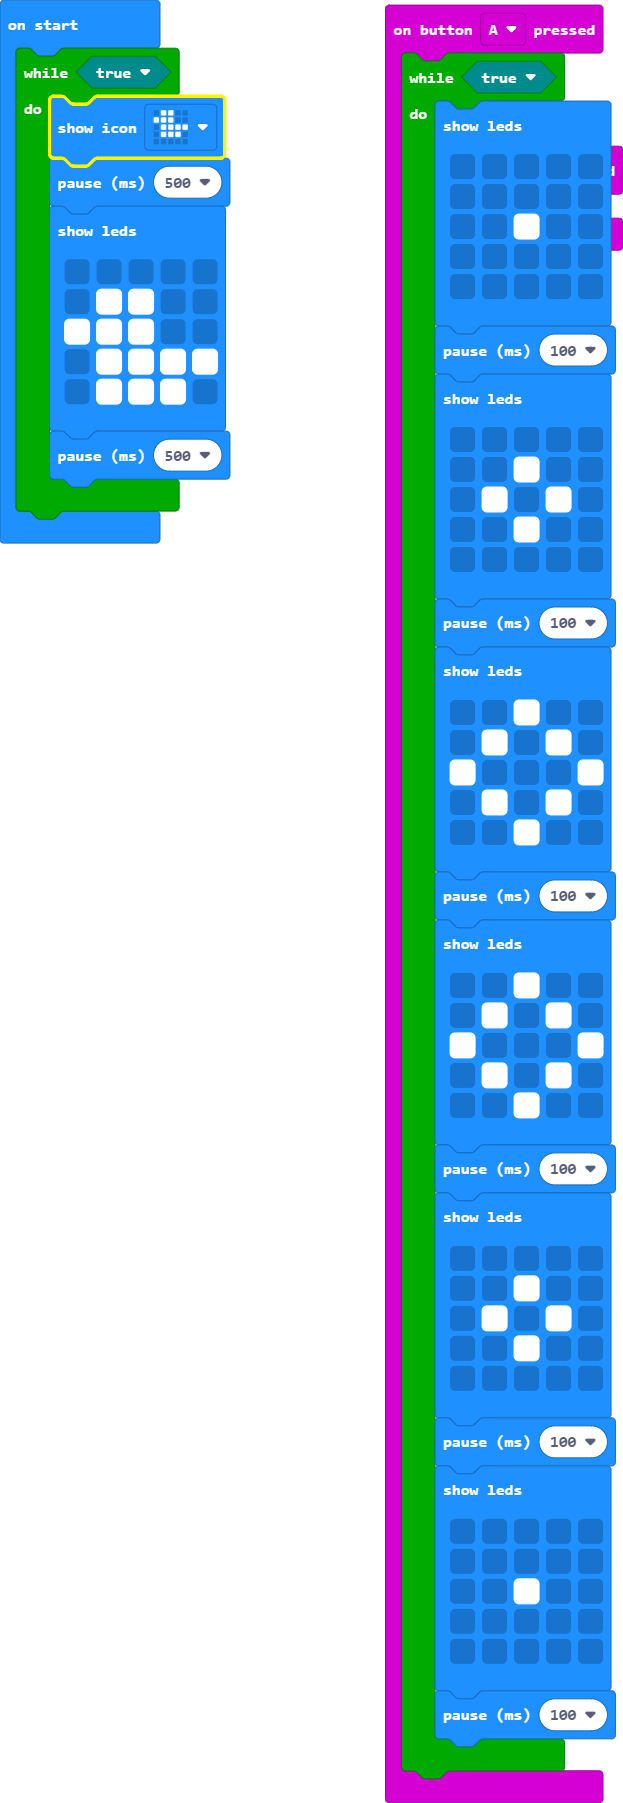
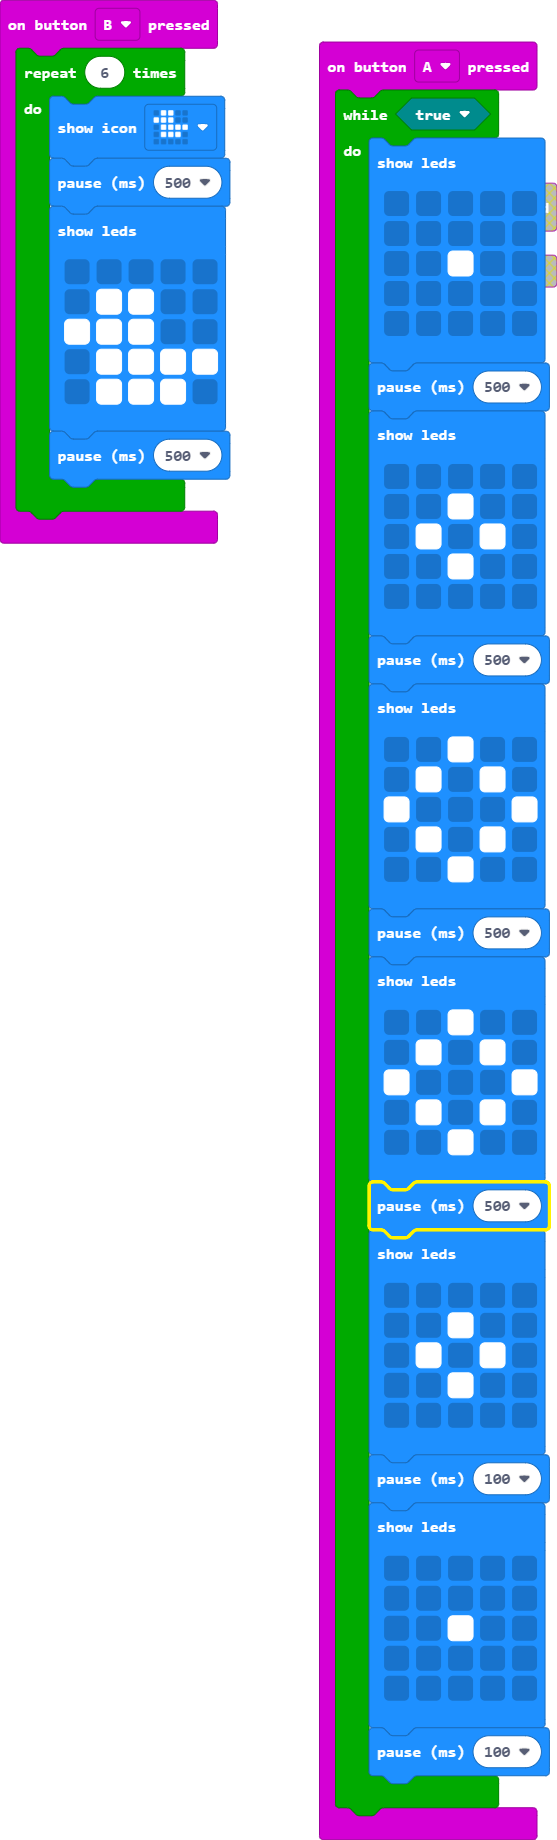
Update main.blocks, main.ts

diff --git a/main.ts b/main.ts
@@ -7,7 +7,7 @@ input.onButtonPressed(Button.A, function () {
             . . . . .
             . . . . .
             `)
-        basic.pause(100)
+        basic.pause(500)
         basic.showLeds(`
             . . . . .
             . . # . .
@@ -15,7 +15,7 @@ input.onButtonPressed(Button.A, function () {
             . . # . .
             . . . . .
             `)
-        basic.pause(100)
+        basic.pause(500)
         basic.showLeds(`
             . . # . .
             . # . # .
@@ -23,7 +23,7 @@ input.onButtonPressed(Button.A, function () {
             . # . # .
             . . # . .
             `)
-        basic.pause(100)
+        basic.pause(500)
         basic.showLeds(`
             . . # . .
             . # . # .
@@ -31,7 +31,7 @@ input.onButtonPressed(Button.A, function () {
             . # . # .
             . . # . .
             `)
-        basic.pause(100)
+        basic.pause(500)
         basic.showLeds(`
             . . . . .
             . . # . .
@@ -51,17 +51,16 @@ input.onButtonPressed(Button.A, function () {
     }
 })
 input.onButtonPressed(Button.B, function () {
-	
+    for (let index = 0; index < 6; index++) {
+        basic.showIcon(IconNames.Duck)
+        basic.pause(500)
+        basic.showLeds(`
+            . . . . .
+            . # # . .
+            # # # . .
+            . # # # #
+            . # # # .
+            `)
+        basic.pause(500)
+    }
 })
-while (true) {
-    basic.showIcon(IconNames.Duck)
-    basic.pause(500)
-    basic.showLeds(`
-        . . . . .
-        . # # . .
-        # # # . .
-        . # # # #
-        . # # # .
-        `)
-    basic.pause(500)
-}
